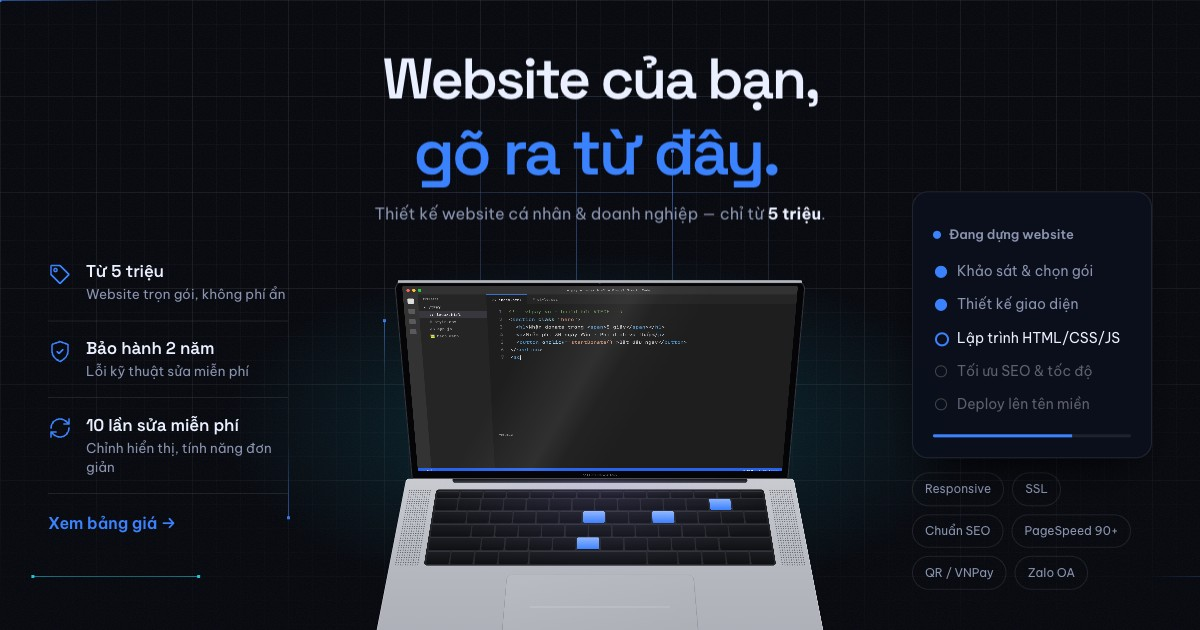
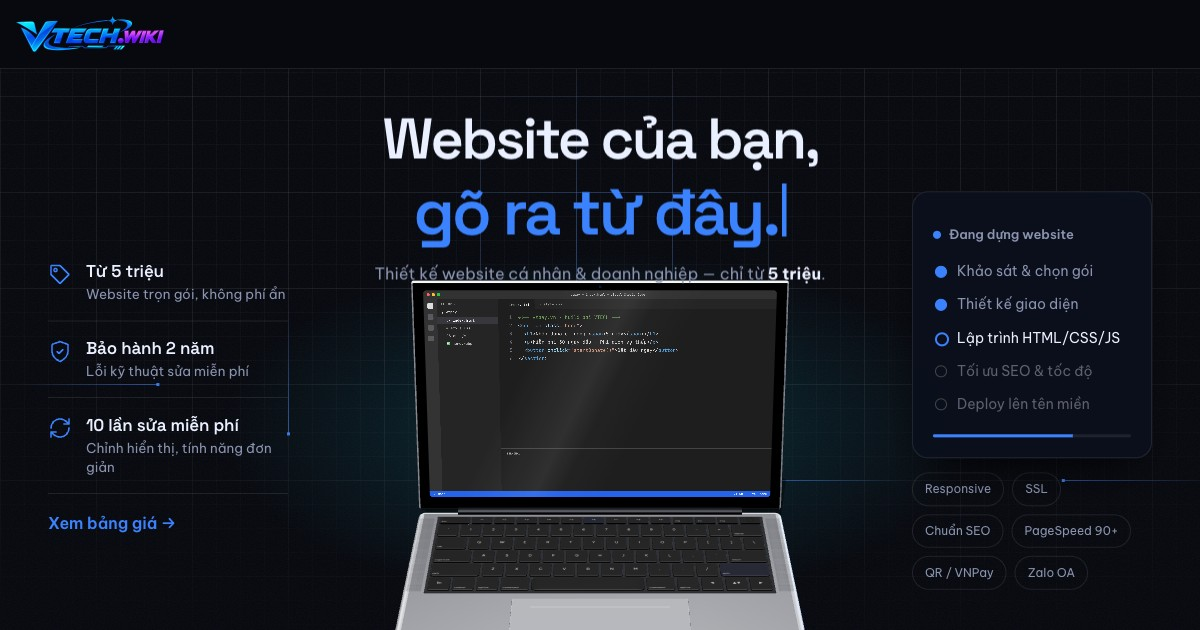
Security headers (CSP, HSTS), SEO schema fixes, new share image

Changed region(s): [[0.3083, 0.4222, 0.7092, 1.0], [0.3083, 0.0905, 0.6783, 0.3921], [0.0, 0.0302, 0.1542, 0.0905]]

diff --git a/public/tin-tuc/website-chuan-seo-2026.html b/public/tin-tuc/website-chuan-seo-2026.html
@@ -1,9 +1,9 @@
 <!doctype html>
 <html lang="vi"><head><meta charset="utf-8"><script>document.documentElement.classList.add("js")</script><meta name="viewport" content="width=device-width,initial-scale=1">
 <title>Website chuẩn SEO 2026: 10 tiêu chí doanh nghiệp cần biết | VTECH</title><meta name="description" content="Website chuẩn SEO năm 2026 cần đáp ứng Core Web Vitals, dữ liệu có cấu trúc, nội dung E-E-A-T và tối ưu cho AI search. Checklist 10 tiêu chí từ VTECH."><link rel="canonical" href="https://vtech.wiki/tin-tuc/website-chuan-seo-2026"><meta name="robots" content="index,follow">
-<meta property="og:type" content="article"><meta property="og:title" content="Website chuẩn SEO 2026: 10 tiêu chí doanh nghiệp cần biết"><meta property="og:description" content="Website chuẩn SEO năm 2026 cần đáp ứng Core Web Vitals, dữ liệu có cấu trúc, nội dung E-E-A-T và tối ưu cho AI search. Checklist 10 tiêu chí từ VTECH."><meta property="og:image" content="../assets/img/news-seo.webp"><meta property="og:url" content="https://vtech.wiki/tin-tuc/website-chuan-seo-2026"><meta property="og:locale" content="vi_VN"><meta property="article:published_time" content="2026-09-20"><meta name="twitter:card" content="summary_large_image"><meta name="theme-color" content="#07070b"><link rel="icon" href="/favicon.ico" sizes="any"><link rel="icon" type="image/png" sizes="32x32" href="/favicon-32.png"><link rel="icon" type="image/png" sizes="48x48" href="/favicon-48.png"><link rel="apple-touch-icon" href="/apple-touch-icon.png">
+<meta property="og:type" content="article"><meta property="og:title" content="Website chuẩn SEO 2026: 10 tiêu chí doanh nghiệp cần biết"><meta property="og:description" content="Website chuẩn SEO năm 2026 cần đáp ứng Core Web Vitals, dữ liệu có cấu trúc, nội dung E-E-A-T và tối ưu cho AI search. Checklist 10 tiêu chí từ VTECH."><meta property="og:image" content="https://vtech.wiki/assets/img/news-seo-og.jpg"><meta property="og:image:width" content="1200"><meta property="og:image:height" content="630"><meta property="og:url" content="https://vtech.wiki/tin-tuc/website-chuan-seo-2026"><meta property="og:locale" content="vi_VN"><meta property="article:published_time" content="2026-09-20"><meta name="twitter:card" content="summary_large_image"><meta name="theme-color" content="#07070b"><link rel="icon" href="/favicon.ico" sizes="any"><link rel="icon" type="image/png" sizes="32x32" href="/favicon-32.png"><link rel="icon" type="image/png" sizes="48x48" href="/favicon-48.png"><link rel="apple-touch-icon" href="/apple-touch-icon.png">
 <link rel="preconnect" href="https://fonts.googleapis.com"><link href="https://fonts.googleapis.com/css2?family=Space+Grotesk:wght@400;500;600;700&family=Be+Vietnam+Pro:wght@400;500;600;700&family=JetBrains+Mono:wght@400;500&display=swap" rel="stylesheet"><link rel="stylesheet" href="../assets/style.css">
-<script type="application/ld+json">{"@context": "https://schema.org", "@graph": [{"@type": "NewsArticle", "headline": "Website chuẩn SEO 2026: 10 tiêu chí doanh nghiệp cần biết", "description": "Website chuẩn SEO năm 2026 cần đáp ứng Core Web Vitals, dữ liệu có cấu trúc, nội dung E-E-A-T và tối ưu cho AI search. Checklist 10 tiêu chí từ VTECH.", "image": "../assets/img/news-seo.webp", "datePublished": "2026-09-20", "dateModified": "2026-09-20", "inLanguage": "vi", "mainEntityOfPage": "https://vtech.wiki/tin-tuc/website-chuan-seo-2026", "author": {"@type": "Organization", "name": "VTECH"}, "publisher": {"@type": "Organization", "name": "CÔNG TY TNHH VT ESPORTS", "url": "https://vtech.wiki/"}}, {"@type": "BreadcrumbList", "itemListElement": [{"@type": "ListItem", "position": 1, "name": "Trang chủ", "item": "https://vtech.wiki/"}, {"@type": "ListItem", "position": 2, "name": "Tin tức", "item": "https://vtech.wiki/#tin-tuc"}, {"@type": "ListItem", "position": 3, "name": "Website chuẩn SEO 2026: 10 tiêu chí doanh nghiệp cần biết", "item": "https://vtech.wiki/tin-tuc/website-chuan-seo-2026"}]}]}</script></head>
+<script type="application/ld+json">{"@context": "https://schema.org", "@graph": [{"@type": "NewsArticle", "headline": "Website chuẩn SEO 2026: 10 tiêu chí doanh nghiệp cần biết", "description": "Website chuẩn SEO năm 2026 cần đáp ứng Core Web Vitals, dữ liệu có cấu trúc, nội dung E-E-A-T và tối ưu cho AI search. Checklist 10 tiêu chí từ VTECH.", "image": "https://vtech.wiki/assets/img/news-seo-og.jpg", "datePublished": "2026-09-20", "dateModified": "2026-09-20", "inLanguage": "vi", "mainEntityOfPage": "https://vtech.wiki/tin-tuc/website-chuan-seo-2026", "author": {"@type": "Organization", "name": "VTECH"}, "publisher": {"@type": "Organization", "name": "CÔNG TY TNHH VT ESPORTS", "url": "https://vtech.wiki/"}}, {"@type": "BreadcrumbList", "itemListElement": [{"@type": "ListItem", "position": 1, "name": "Trang chủ", "item": "https://vtech.wiki/"}, {"@type": "ListItem", "position": 2, "name": "Tin tức", "item": "https://vtech.wiki/#tin-tuc"}, {"@type": "ListItem", "position": 3, "name": "Website chuẩn SEO 2026: 10 tiêu chí doanh nghiệp cần biết", "item": "https://vtech.wiki/tin-tuc/website-chuan-seo-2026"}]}]}</script></head>
 <body><header class="nav"><div class="wrap"><a href="../" class="logo" aria-label="VTECH – trang chủ"><img src="/assets/img/logo-vtech.webp" alt="VTECH.WIKI" width="148" height="36"></a><nav aria-label="Menu chính"><ul><li><a href="../#bang-gia">Bảng giá</a></li><li><a href="../#he-thong">Hệ thống</a></li><li><a href="../#du-an">Dự án</a></li><li><a href="../#hoi-dap">Hỏi đáp</a></li><li><a href="../#tin-tuc">Tin tức</a></li></ul></nav><a href="../#lien-he" class="btn sm">Nhận báo giá</a><button class="menu-t" aria-label="Mở menu">☰</button></div></header>
 <main class="article"><article class="wrap">
 <nav class="crumb" aria-label="Breadcrumb"><a href="../">Trang chủ</a> / <a href="../#tin-tuc">Tin tức</a></nav>

diff --git a/public/tin-tuc/landing-page-3d-webgl.html b/public/tin-tuc/landing-page-3d-webgl.html
@@ -1,9 +1,9 @@
 <!doctype html>
 <html lang="vi"><head><meta charset="utf-8"><script>document.documentElement.classList.add("js")</script><meta name="viewport" content="width=device-width,initial-scale=1">
 <title>Landing page 3D: công nghệ WebGL giúp thương hiệu nổi bật | VTECH</title><meta name="description" content="Landing page 3D dùng WebGL và Three.js tạo trải nghiệm tương tác ấn tượng. Tìm hiểu khi nào nên dùng và cách giữ website nhanh, chuẩn SEO."><link rel="canonical" href="https://vtech.wiki/tin-tuc/landing-page-3d-webgl"><meta name="robots" content="index,follow">
-<meta property="og:type" content="article"><meta property="og:title" content="Landing page 3D: công nghệ WebGL giúp thương hiệu nổi bật"><meta property="og:description" content="Landing page 3D dùng WebGL và Three.js tạo trải nghiệm tương tác ấn tượng. Tìm hiểu khi nào nên dùng và cách giữ website nhanh, chuẩn SEO."><meta property="og:image" content="../assets/img/news-3d.webp"><meta property="og:url" content="https://vtech.wiki/tin-tuc/landing-page-3d-webgl"><meta property="og:locale" content="vi_VN"><meta property="article:published_time" content="2026-09-12"><meta name="twitter:card" content="summary_large_image"><meta name="theme-color" content="#07070b"><link rel="icon" href="/favicon.ico" sizes="any"><link rel="icon" type="image/png" sizes="32x32" href="/favicon-32.png"><link rel="icon" type="image/png" sizes="48x48" href="/favicon-48.png"><link rel="apple-touch-icon" href="/apple-touch-icon.png">
+<meta property="og:type" content="article"><meta property="og:title" content="Landing page 3D: công nghệ WebGL giúp thương hiệu nổi bật"><meta property="og:description" content="Landing page 3D dùng WebGL và Three.js tạo trải nghiệm tương tác ấn tượng. Tìm hiểu khi nào nên dùng và cách giữ website nhanh, chuẩn SEO."><meta property="og:image" content="https://vtech.wiki/assets/img/news-3d-og.jpg"><meta property="og:image:width" content="1200"><meta property="og:image:height" content="630"><meta property="og:url" content="https://vtech.wiki/tin-tuc/landing-page-3d-webgl"><meta property="og:locale" content="vi_VN"><meta property="article:published_time" content="2026-09-12"><meta name="twitter:card" content="summary_large_image"><meta name="theme-color" content="#07070b"><link rel="icon" href="/favicon.ico" sizes="any"><link rel="icon" type="image/png" sizes="32x32" href="/favicon-32.png"><link rel="icon" type="image/png" sizes="48x48" href="/favicon-48.png"><link rel="apple-touch-icon" href="/apple-touch-icon.png">
 <link rel="preconnect" href="https://fonts.googleapis.com"><link href="https://fonts.googleapis.com/css2?family=Space+Grotesk:wght@400;500;600;700&family=Be+Vietnam+Pro:wght@400;500;600;700&family=JetBrains+Mono:wght@400;500&display=swap" rel="stylesheet"><link rel="stylesheet" href="../assets/style.css">
-<script type="application/ld+json">{"@context": "https://schema.org", "@graph": [{"@type": "NewsArticle", "headline": "Landing page 3D: công nghệ WebGL giúp thương hiệu nổi bật", "description": "Landing page 3D dùng WebGL và Three.js tạo trải nghiệm tương tác ấn tượng. Tìm hiểu khi nào nên dùng và cách giữ website nhanh, chuẩn SEO.", "image": "../assets/img/news-3d.webp", "datePublished": "2026-09-12", "dateModified": "2026-09-12", "inLanguage": "vi", "mainEntityOfPage": "https://vtech.wiki/tin-tuc/landing-page-3d-webgl", "author": {"@type": "Organization", "name": "VTECH"}, "publisher": {"@type": "Organization", "name": "CÔNG TY TNHH VT ESPORTS", "url": "https://vtech.wiki/"}}, {"@type": "BreadcrumbList", "itemListElement": [{"@type": "ListItem", "position": 1, "name": "Trang chủ", "item": "https://vtech.wiki/"}, {"@type": "ListItem", "position": 2, "name": "Tin tức", "item": "https://vtech.wiki/#tin-tuc"}, {"@type": "ListItem", "position": 3, "name": "Landing page 3D: công nghệ WebGL giúp thương hiệu nổi bật", "item": "https://vtech.wiki/tin-tuc/landing-page-3d-webgl"}]}]}</script></head>
+<script type="application/ld+json">{"@context": "https://schema.org", "@graph": [{"@type": "NewsArticle", "headline": "Landing page 3D: công nghệ WebGL giúp thương hiệu nổi bật", "description": "Landing page 3D dùng WebGL và Three.js tạo trải nghiệm tương tác ấn tượng. Tìm hiểu khi nào nên dùng và cách giữ website nhanh, chuẩn SEO.", "image": "https://vtech.wiki/assets/img/news-3d-og.jpg", "datePublished": "2026-09-12", "dateModified": "2026-09-12", "inLanguage": "vi", "mainEntityOfPage": "https://vtech.wiki/tin-tuc/landing-page-3d-webgl", "author": {"@type": "Organization", "name": "VTECH"}, "publisher": {"@type": "Organization", "name": "CÔNG TY TNHH VT ESPORTS", "url": "https://vtech.wiki/"}}, {"@type": "BreadcrumbList", "itemListElement": [{"@type": "ListItem", "position": 1, "name": "Trang chủ", "item": "https://vtech.wiki/"}, {"@type": "ListItem", "position": 2, "name": "Tin tức", "item": "https://vtech.wiki/#tin-tuc"}, {"@type": "ListItem", "position": 3, "name": "Landing page 3D: công nghệ WebGL giúp thương hiệu nổi bật", "item": "https://vtech.wiki/tin-tuc/landing-page-3d-webgl"}]}]}</script></head>
 <body><header class="nav"><div class="wrap"><a href="../" class="logo" aria-label="VTECH – trang chủ"><img src="/assets/img/logo-vtech.webp" alt="VTECH.WIKI" width="148" height="36"></a><nav aria-label="Menu chính"><ul><li><a href="../#bang-gia">Bảng giá</a></li><li><a href="../#he-thong">Hệ thống</a></li><li><a href="../#du-an">Dự án</a></li><li><a href="../#hoi-dap">Hỏi đáp</a></li><li><a href="../#tin-tuc">Tin tức</a></li></ul></nav><a href="../#lien-he" class="btn sm">Nhận báo giá</a><button class="menu-t" aria-label="Mở menu">☰</button></div></header>
 <main class="article"><article class="wrap">
 <nav class="crumb" aria-label="Breadcrumb"><a href="../">Trang chủ</a> / <a href="../#tin-tuc">Tin tức</a></nav>

diff --git a/public/tin-tuc/ra-mat-vtech.html b/public/tin-tuc/ra-mat-vtech.html
@@ -1,9 +1,9 @@
 <!doctype html>
 <html lang="vi"><head><meta charset="utf-8"><script>document.documentElement.classList.add("js")</script><meta name="viewport" content="width=device-width,initial-scale=1">
 <title>VT Esports ra mắt VTECH – giải pháp website cho doanh nghiệp | VTECH</title><meta name="description" content="Công ty TNHH VT Esports ra mắt thương hiệu VTECH chuyên thiết kế website chuẩn SEO, landing page 3D và chuyển đổi số cho doanh nghiệp tại TP.HCM."><link rel="canonical" href="https://vtech.wiki/tin-tuc/ra-mat-vtech"><meta name="robots" content="index,follow">
-<meta property="og:type" content="article"><meta property="og:title" content="VT Esports ra mắt VTECH – giải pháp website cho doanh nghiệp"><meta property="og:description" content="Công ty TNHH VT Esports ra mắt thương hiệu VTECH chuyên thiết kế website chuẩn SEO, landing page 3D và chuyển đổi số cho doanh nghiệp tại TP.HCM."><meta property="og:image" content="../assets/img/news-launch.webp"><meta property="og:url" content="https://vtech.wiki/tin-tuc/ra-mat-vtech"><meta property="og:locale" content="vi_VN"><meta property="article:published_time" content="2026-09-01"><meta name="twitter:card" content="summary_large_image"><meta name="theme-color" content="#07070b"><link rel="icon" href="/favicon.ico" sizes="any"><link rel="icon" type="image/png" sizes="32x32" href="/favicon-32.png"><link rel="icon" type="image/png" sizes="48x48" href="/favicon-48.png"><link rel="apple-touch-icon" href="/apple-touch-icon.png">
+<meta property="og:type" content="article"><meta property="og:title" content="VT Esports ra mắt VTECH – giải pháp website cho doanh nghiệp"><meta property="og:description" content="Công ty TNHH VT Esports ra mắt thương hiệu VTECH chuyên thiết kế website chuẩn SEO, landing page 3D và chuyển đổi số cho doanh nghiệp tại TP.HCM."><meta property="og:image" content="https://vtech.wiki/assets/img/news-launch-og.jpg"><meta property="og:image:width" content="1200"><meta property="og:image:height" content="630"><meta property="og:url" content="https://vtech.wiki/tin-tuc/ra-mat-vtech"><meta property="og:locale" content="vi_VN"><meta property="article:published_time" content="2026-09-01"><meta name="twitter:card" content="summary_large_image"><meta name="theme-color" content="#07070b"><link rel="icon" href="/favicon.ico" sizes="any"><link rel="icon" type="image/png" sizes="32x32" href="/favicon-32.png"><link rel="icon" type="image/png" sizes="48x48" href="/favicon-48.png"><link rel="apple-touch-icon" href="/apple-touch-icon.png">
 <link rel="preconnect" href="https://fonts.googleapis.com"><link href="https://fonts.googleapis.com/css2?family=Space+Grotesk:wght@400;500;600;700&family=Be+Vietnam+Pro:wght@400;500;600;700&family=JetBrains+Mono:wght@400;500&display=swap" rel="stylesheet"><link rel="stylesheet" href="../assets/style.css">
-<script type="application/ld+json">{"@context": "https://schema.org", "@graph": [{"@type": "NewsArticle", "headline": "VT Esports ra mắt VTECH – giải pháp website cho doanh nghiệp", "description": "Công ty TNHH VT Esports ra mắt thương hiệu VTECH chuyên thiết kế website chuẩn SEO, landing page 3D và chuyển đổi số cho doanh nghiệp tại TP.HCM.", "image": "../assets/img/news-launch.webp", "datePublished": "2026-09-01", "dateModified": "2026-09-01", "inLanguage": "vi", "mainEntityOfPage": "https://vtech.wiki/tin-tuc/ra-mat-vtech", "author": {"@type": "Organization", "name": "VTECH"}, "publisher": {"@type": "Organization", "name": "CÔNG TY TNHH VT ESPORTS", "url": "https://vtech.wiki/"}}, {"@type": "BreadcrumbList", "itemListElement": [{"@type": "ListItem", "position": 1, "name": "Trang chủ", "item": "https://vtech.wiki/"}, {"@type": "ListItem", "position": 2, "name": "Tin tức", "item": "https://vtech.wiki/#tin-tuc"}, {"@type": "ListItem", "position": 3, "name": "VT Esports ra mắt VTECH – giải pháp website cho doanh nghiệp", "item": "https://vtech.wiki/tin-tuc/ra-mat-vtech"}]}]}</script></head>
+<script type="application/ld+json">{"@context": "https://schema.org", "@graph": [{"@type": "NewsArticle", "headline": "VT Esports ra mắt VTECH – giải pháp website cho doanh nghiệp", "description": "Công ty TNHH VT Esports ra mắt thương hiệu VTECH chuyên thiết kế website chuẩn SEO, landing page 3D và chuyển đổi số cho doanh nghiệp tại TP.HCM.", "image": "https://vtech.wiki/assets/img/news-launch-og.jpg", "datePublished": "2026-09-01", "dateModified": "2026-09-01", "inLanguage": "vi", "mainEntityOfPage": "https://vtech.wiki/tin-tuc/ra-mat-vtech", "author": {"@type": "Organization", "name": "VTECH"}, "publisher": {"@type": "Organization", "name": "CÔNG TY TNHH VT ESPORTS", "url": "https://vtech.wiki/"}}, {"@type": "BreadcrumbList", "itemListElement": [{"@type": "ListItem", "position": 1, "name": "Trang chủ", "item": "https://vtech.wiki/"}, {"@type": "ListItem", "position": 2, "name": "Tin tức", "item": "https://vtech.wiki/#tin-tuc"}, {"@type": "ListItem", "position": 3, "name": "VT Esports ra mắt VTECH – giải pháp website cho doanh nghiệp", "item": "https://vtech.wiki/tin-tuc/ra-mat-vtech"}]}]}</script></head>
 <body><header class="nav"><div class="wrap"><a href="../" class="logo" aria-label="VTECH – trang chủ"><img src="/assets/img/logo-vtech.webp" alt="VTECH.WIKI" width="148" height="36"></a><nav aria-label="Menu chính"><ul><li><a href="../#bang-gia">Bảng giá</a></li><li><a href="../#he-thong">Hệ thống</a></li><li><a href="../#du-an">Dự án</a></li><li><a href="../#hoi-dap">Hỏi đáp</a></li><li><a href="../#tin-tuc">Tin tức</a></li></ul></nav><a href="../#lien-he" class="btn sm">Nhận báo giá</a><button class="menu-t" aria-label="Mở menu">☰</button></div></header>
 <main class="article"><article class="wrap">
 <nav class="crumb" aria-label="Breadcrumb"><a href="../">Trang chủ</a> / <a href="../#tin-tuc">Tin tức</a></nav>

diff --git a/public/chinh-sach-bao-hanh.html b/public/chinh-sach-bao-hanh.html
@@ -3,7 +3,7 @@
 <title>Chính sách bảo hành | VTECH</title><meta name="description" content="Chính sách bảo hành 2 năm và 10 lần sửa code miễn phí cho website do VTECH thiết kế."><link rel="canonical" href="https://vtech.wiki/chinh-sach-bao-hanh"><meta name="robots" content="index,follow">
 <meta property="article:published_time" content="2026-09-01"><meta name="twitter:card" content="summary_large_image"><meta name="theme-color" content="#07070b"><link rel="icon" href="/favicon.ico" sizes="any"><link rel="icon" type="image/png" sizes="32x32" href="/favicon-32.png"><link rel="icon" type="image/png" sizes="48x48" href="/favicon-48.png"><link rel="apple-touch-icon" href="/apple-touch-icon.png">
 <link rel="preconnect" href="https://fonts.googleapis.com"><link href="https://fonts.googleapis.com/css2?family=Space+Grotesk:wght@400;500;600;700&family=Be+Vietnam+Pro:wght@400;500;600;700&family=JetBrains+Mono:wght@400;500&display=swap" rel="stylesheet"><link rel="stylesheet" href="assets/style.css">
-</head>
+<meta property="og:type" content="website"><meta property="og:title" content="Chính sách bảo hành | VTECH"><meta property="og:description" content="Bảo hành 2 năm và 10 lần sửa code miễn phí cho website do VTECH thiết kế."><meta property="og:url" content="https://vtech.wiki/chinh-sach-bao-hanh"><meta property="og:image" content="https://vtech.wiki/assets/img/og-vtech.jpg"><meta property="og:image:width" content="1200"><meta property="og:image:height" content="630"><meta property="og:locale" content="vi_VN"><meta name="twitter:card" content="summary_large_image"><script type="application/ld+json">{"@context": "https://schema.org", "@type": "BreadcrumbList", "itemListElement": [{"@type": "ListItem", "position": 1, "name": "Trang chủ", "item": "https://vtech.wiki/"}, {"@type": "ListItem", "position": 2, "name": "Chính sách bảo hành", "item": "https://vtech.wiki/chinh-sach-bao-hanh"}]}</script></head>
 <body><header class="nav"><div class="wrap"><a href="/" class="logo" aria-label="VTECH – trang chủ"><img src="/assets/img/logo-vtech.webp" alt="VTECH.WIKI" width="148" height="36"></a><nav aria-label="Menu chính"><ul><li><a href="/#bang-gia">Bảng giá</a></li><li><a href="/#he-thong">Hệ thống</a></li><li><a href="/#du-an">Dự án</a></li><li><a href="/#hoi-dap">Hỏi đáp</a></li><li><a href="/#tin-tuc">Tin tức</a></li></ul></nav><a href="/#lien-he" class="btn sm">Nhận báo giá</a><button class="menu-t" aria-label="Mở menu">☰</button></div></header>
 <main class="article"><article class="wrap"><nav class="crumb" aria-label="Breadcrumb"><a href="/">Trang chủ</a> / Chính sách bảo hành</nav>
 <span class="meta">Áp dụng từ 22/10/2026 · Phiên bản 1.0</span>

diff --git a/public/dieu-khoan.html b/public/dieu-khoan.html
@@ -3,7 +3,7 @@
 <title>Điều khoản dịch vụ | VTECH</title><meta name="description" content="Điều khoản dịch vụ thiết kế website của VTECH – Công ty TNHH VT Esports."><link rel="canonical" href="https://vtech.wiki/dieu-khoan"><meta name="robots" content="index,follow">
 <meta property="article:published_time" content="2026-09-01"><meta name="twitter:card" content="summary_large_image"><meta name="theme-color" content="#07070b"><link rel="icon" href="/favicon.ico" sizes="any"><link rel="icon" type="image/png" sizes="32x32" href="/favicon-32.png"><link rel="icon" type="image/png" sizes="48x48" href="/favicon-48.png"><link rel="apple-touch-icon" href="/apple-touch-icon.png">
 <link rel="preconnect" href="https://fonts.googleapis.com"><link href="https://fonts.googleapis.com/css2?family=Space+Grotesk:wght@400;500;600;700&family=Be+Vietnam+Pro:wght@400;500;600;700&family=JetBrains+Mono:wght@400;500&display=swap" rel="stylesheet"><link rel="stylesheet" href="assets/style.css">
-</head>
+<meta property="og:type" content="website"><meta property="og:title" content="Điều khoản dịch vụ | VTECH"><meta property="og:description" content="Điều khoản dịch vụ thiết kế website của VTECH – Công ty TNHH VT Esports."><meta property="og:url" content="https://vtech.wiki/dieu-khoan"><meta property="og:image" content="https://vtech.wiki/assets/img/og-vtech.jpg"><meta property="og:image:width" content="1200"><meta property="og:image:height" content="630"><meta property="og:locale" content="vi_VN"><meta name="twitter:card" content="summary_large_image"><script type="application/ld+json">{"@context": "https://schema.org", "@type": "BreadcrumbList", "itemListElement": [{"@type": "ListItem", "position": 1, "name": "Trang chủ", "item": "https://vtech.wiki/"}, {"@type": "ListItem", "position": 2, "name": "Điều khoản dịch vụ", "item": "https://vtech.wiki/dieu-khoan"}]}</script></head>
 <body><header class="nav"><div class="wrap"><a href="/" class="logo" aria-label="VTECH – trang chủ"><img src="/assets/img/logo-vtech.webp" alt="VTECH.WIKI" width="148" height="36"></a><nav aria-label="Menu chính"><ul><li><a href="/#bang-gia">Bảng giá</a></li><li><a href="/#he-thong">Hệ thống</a></li><li><a href="/#du-an">Dự án</a></li><li><a href="/#hoi-dap">Hỏi đáp</a></li><li><a href="/#tin-tuc">Tin tức</a></li></ul></nav><a href="/#lien-he" class="btn sm">Nhận báo giá</a><button class="menu-t" aria-label="Mở menu">☰</button></div></header>
 <main class="article"><article class="wrap"><nav class="crumb" aria-label="Breadcrumb"><a href="/">Trang chủ</a> / Điều khoản dịch vụ</nav>
 <span class="meta">Áp dụng từ 22/10/2026 · Phiên bản 1.0</span>

diff --git a/public/index.html b/public/index.html
@@ -31,17 +31,11 @@
    {"@type":"Offer","name":"Website cá nhân","priceSpecification":{"@type":"PriceSpecification","minPrice":5000000,"priceCurrency":"VND"}},
    {"@type":"Offer","name":"Website doanh nghiệp","priceSpecification":{"@type":"PriceSpecification","minPrice":9000000,"priceCurrency":"VND"}},
    {"@type":"Offer","name":"Website bán hàng 3D","priceSpecification":{"@type":"PriceSpecification","minPrice":15000000,"priceCurrency":"VND"}}]},
- {"@type":"WebSite","url":"https://vtech.wiki/","name":"VTECH","inLanguage":"vi"}
+ {"@type":"WebSite","url":"https://vtech.wiki/","name":"VTECH","inLanguage":"vi"},
+ {"@type": "FAQPage", "mainEntity": [{"@type": "Question", "name": "Giá 5 triệu đã gồm những gì?", "acceptedAnswer": {"@type": "Answer", "text": "Thiết kế, lập trình một trang landing/portfolio, tên miền .com và hosting năm đầu, SSL, tối ưu mobile, SEO cơ bản và bảo hành 2 năm."}}, {"@type": "Question", "name": "Năm thứ hai trở đi tôi trả những phí gì?", "acceptedAnswer": {"@type": "Answer", "text": "Chỉ phí gia hạn tên miền và hosting theo giá nhà cung cấp. VTECH báo trước để bạn chủ động."}}, {"@type": "Question", "name": "Thế nào là “tính năng đơn giản” trong 10 lần sửa miễn phí?", "acceptedAnswer": {"@type": "Answer", "text": "Là các thay đổi về hiển thị, không ảnh hưởng sâu đến hệ thống: chữ, ảnh, màu, bố cục, thêm nút/form/banner. Thay đổi về dữ liệu hoặc module mới sẽ được báo giá riêng trước khi làm."}}, {"@type": "Question", "name": "Bao lâu thì website chạy được?", "acceptedAnswer": {"@type": "Answer", "text": "Gói Cá nhân 5–7 ngày, Doanh nghiệp 10–14 ngày, Bán hàng 3D 3–4 tuần sau khi duyệt thiết kế."}}, {"@type": "Question", "name": "Tôi có toàn quyền website sau khi bàn giao không?", "acceptedAnswer": {"@type": "Answer", "text": "Có. Tên miền đứng tên bạn, bàn giao tài khoản quản trị và hosting."}}]}
 ]}
 </script>
-<script>
-/* Đo lường: điền mã để bật. Để trống = không tải gì. */
-window.VTECH_CFG = {
-  GA4_ID: '',        // ví dụ 'G-XXXXXXXXXX'
-  FB_PIXEL_ID: '',   // ví dụ '1234567890'
-  FORM_ENDPOINT: ''  // URL Google Apps Script nhận form (xem hướng dẫn)
-};
-</script>
+<script src="assets/config.js"></script>
 </head>
 <body>
 <svg width="0" height="0" style="position:absolute" aria-hidden="true"><defs>

diff --git a/public/assets/config.js b/public/assets/config.js
@@ -1,0 +1,6 @@
+/* Đo lường: điền mã để bật. Để trống = không tải gì. */
+window.VTECH_CFG = {
+  GA4_ID: '',        // ví dụ 'G-XXXXXXXXXX'
+  FB_PIXEL_ID: '',   // ví dụ '1234567890'
+  FORM_ENDPOINT: ''  // URL Google Apps Script nhận form (xem hướng dẫn)
+};
